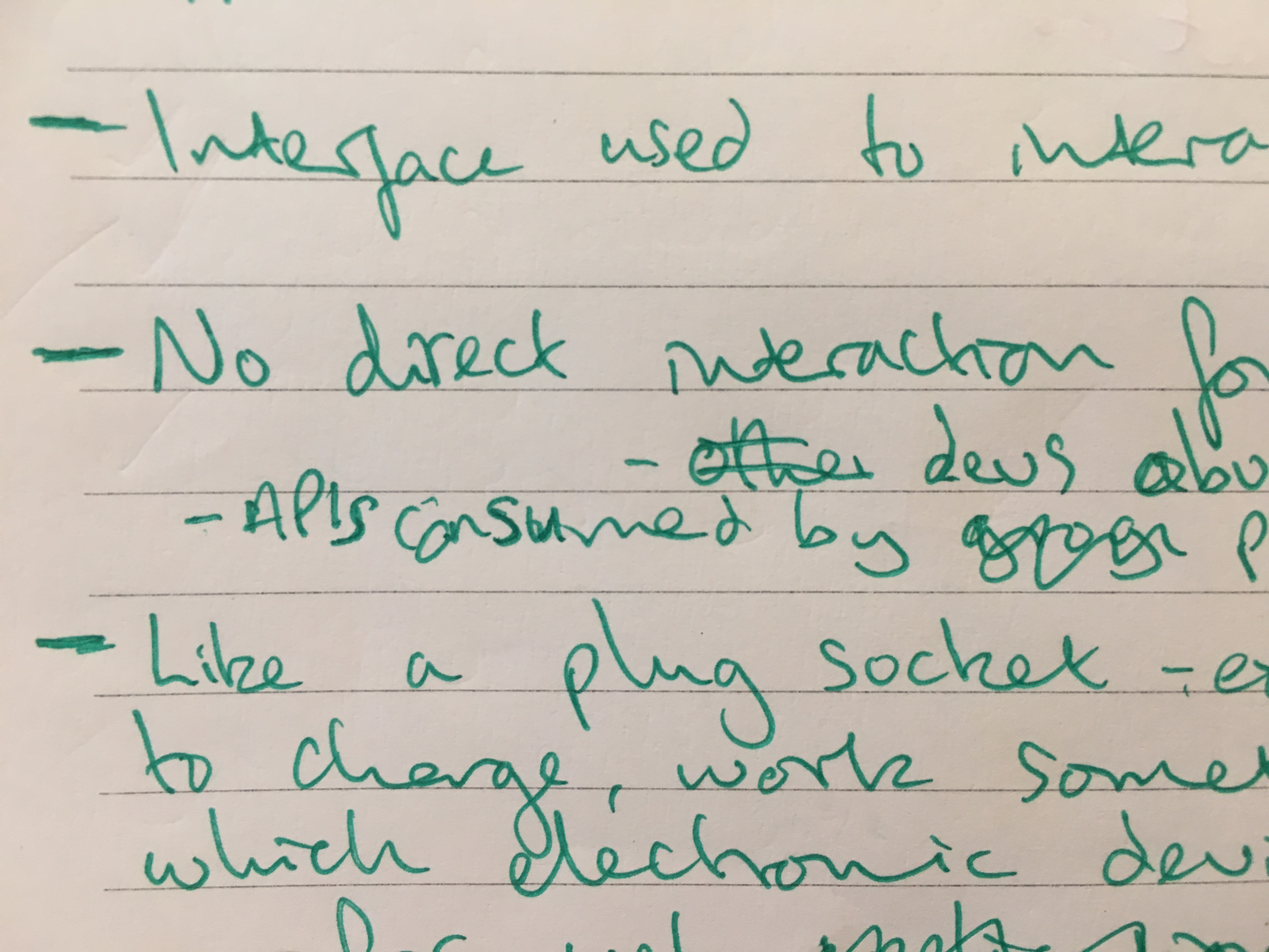
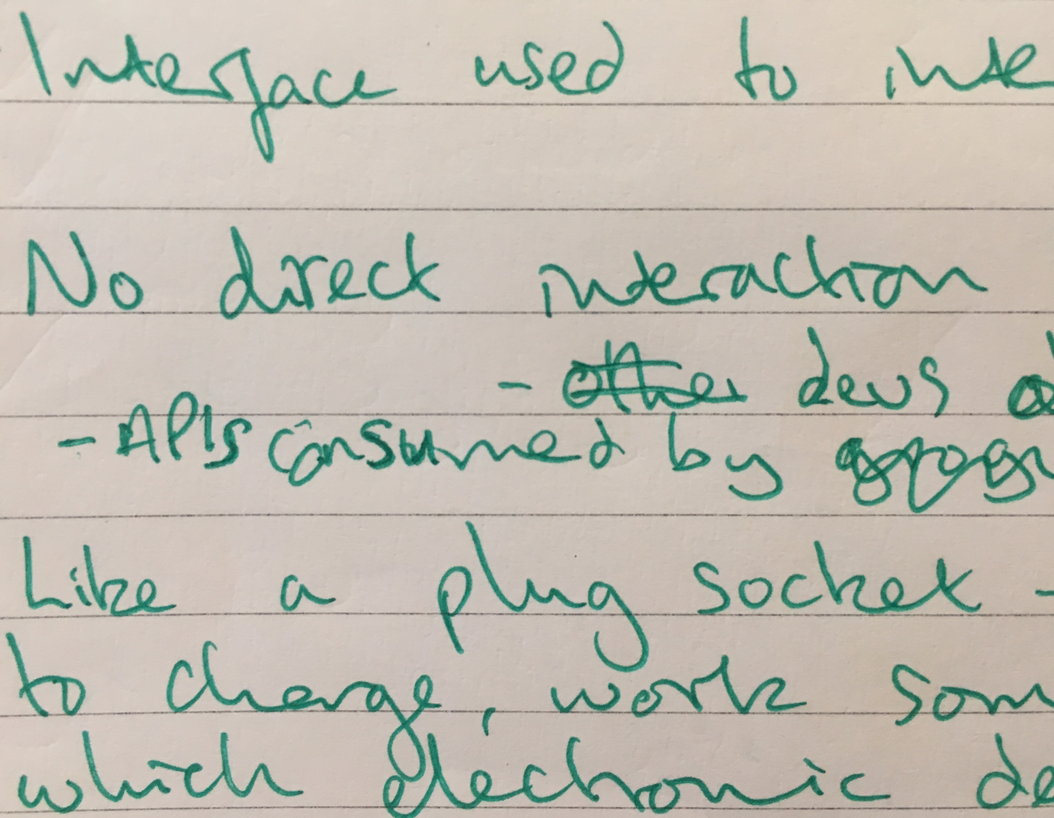
le wagon image width changea

Changed region(s): [[0.0, 0.0312, 1.0, 1.0], [0.0, 0.0, 0.0311, 0.0624]]

diff --git a/_posts/2018-05-30-LeWagonAPIS.md b/_posts/2018-05-30-LeWagonAPIS.md
@@ -11,7 +11,7 @@ Some events are tech talks, some are workshops learning with mentors and others 
 
 <br>
 <p align="center"><img src="/images/LeWagon/API-notes.JPG"
-     alt="My Le Wagon notes" width="300px" /></p>
+     alt="My Le Wagon notes" width="90%" /></p>
 <br>
 
 ### Who are Le Wagon?
